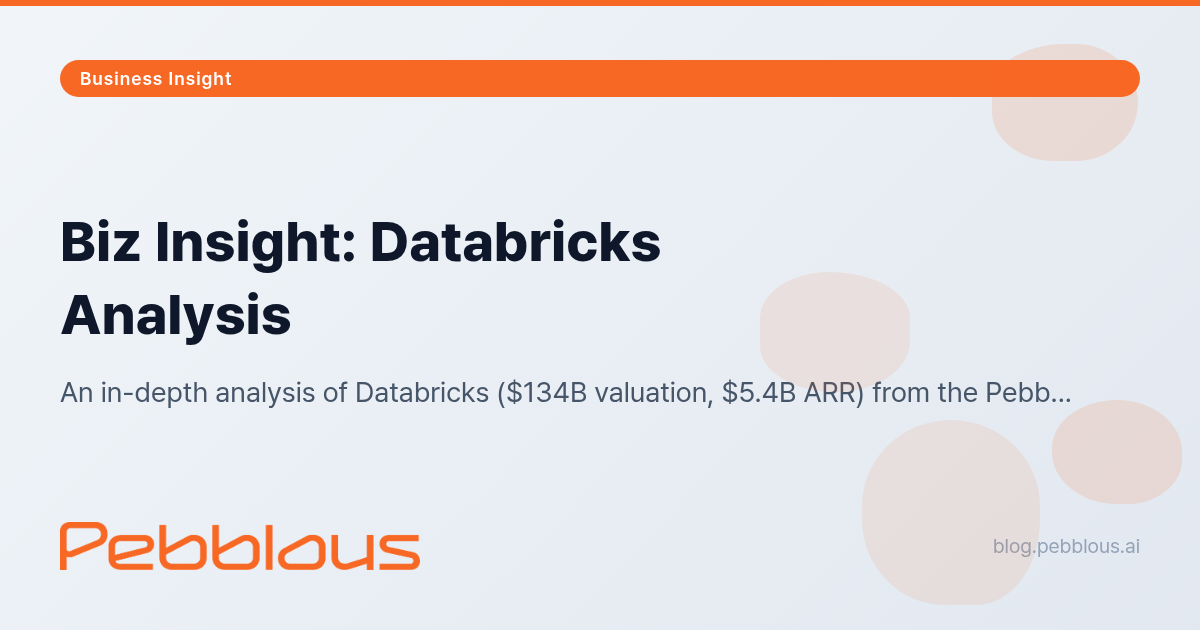
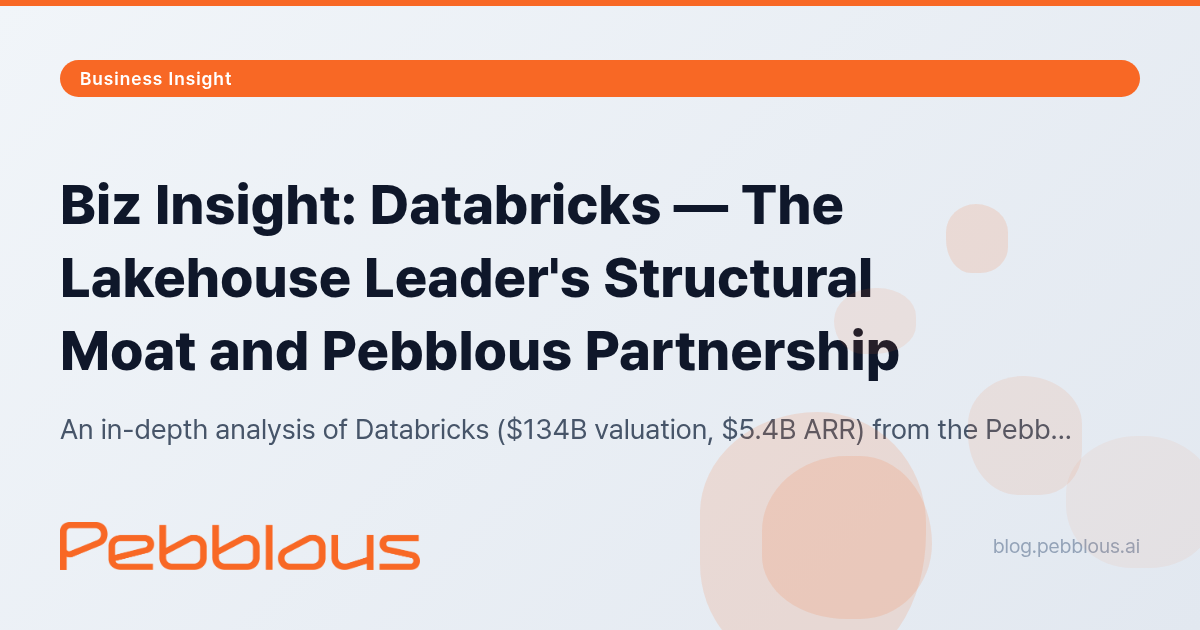
fix: Databricks 비즈 인사이트 EN HTML 제목 통일 + OG 이미지 재생성
- ko/en HTML title, og:title, twitter:title 시리즈 포맷 통일
- OG 이미지 새 제목으로 재생성 (KO 255KB, EN 262KB)

diff --git a/project/BizReport/databricks-analysis-01/ko/index.html b/project/BizReport/databricks-analysis-01/ko/index.html
@@ -21,7 +21,7 @@
     <!-- Open Graph / Facebook -->
     <meta property="og:type" content="article">
     <meta property="og:url" content="https://blog.pebblous.ai/project/BizReport/databricks-analysis-01/ko/">
-    <meta property="og:title" content="비즈 인사이트: Databricks 기업 분석 — 페블러스 전략 관점 | Pebblous">
+    <meta property="og:title" content="비즈 인사이트: Databricks — 레이크하우스 거인의 구조적 해자와 페블러스 협력 기회 | Pebblous">
     <meta property="og:description" content="기업가치 $134B, ARR $5.4B의 데이터 레이크하우스 거인 Databricks를 페블러스 전략 관점에서 분석합니다. Unity Catalog 데이터 거버넌스 공백과 DataClinic 협력 가능성을 도출합니다.">
     <meta property="og:image" content="https://blog.pebblous.ai/project/BizReport/databricks-analysis-01/ko/image/og.png">
     <meta property="og:image:width" content="1200">
@@ -35,7 +35,7 @@
     <meta name="twitter:site" content="@pebblous">
     <meta name="twitter:creator" content="@pebblous">
     <meta name="twitter:url" content="https://blog.pebblous.ai/project/BizReport/databricks-analysis-01/ko/">
-    <meta name="twitter:title" content="비즈 인사이트: Databricks 기업 분석 — 페블러스 전략 관점 | Pebblous">
+    <meta name="twitter:title" content="비즈 인사이트: Databricks — 레이크하우스 거인의 구조적 해자와 페블러스 협력 기회 | Pebblous">
     <meta name="twitter:description" content="$134B 데이터 레이크하우스 거인 Databricks의 제품·전략·재무를 분석하고, 페블러스 DataClinic과의 협력 접점을 검증합니다.">
     <meta name="twitter:image" content="https://blog.pebblous.ai/project/BizReport/databricks-analysis-01/ko/image/og.png">
     <meta name="twitter:image:alt" content="비즈 인사이트: Databricks 기업 분석 - 페블러스">
@@ -61,7 +61,7 @@
     <link rel="alternate" hreflang="en" href="https://blog.pebblous.ai/project/BizReport/databricks-analysis-01/en/" />
     <link rel="alternate" hreflang="x-default" href="https://blog.pebblous.ai/project/BizReport/databricks-analysis-01/en/" />
 
-    <title id="page-title">비즈 인사이트: Databricks 기업 분석 — 페블러스 전략 관점 | Pebblous</title>
+    <title id="page-title">비즈 인사이트: Databricks — 레이크하우스 거인의 구조적 해자와 페블러스 협력 기회 | Pebblous</title>
 
     <!-- Favicon -->
     <link rel="icon" href="/image/favicon.ico" sizes="any">
@@ -671,7 +671,7 @@
                 subtitle: "데이터 레이크하우스·AI/ML 플랫폼 관점의 페블러스 전략 분석",
                 publishDate: "2026년 4월 6일",
                 publisher: "(주)페블러스 데이터 커뮤니케이션팀",
-                pageTitle: "비즈 인사이트: Databricks 기업 분석 — 페블러스 전략 관점 | Pebblous",
+                pageTitle: "비즈 인사이트: Databricks — 레이크하우스 거인의 구조적 해자와 페블러스 협력 기회 | Pebblous",
                 defaultTheme: "light",
                 commentsMessage: "Databricks 기업 분석에 대한 질문이나 의견이 있으신가요?",
                 category: "business",

diff --git a/project/BizReport/databricks-analysis-01/en/index.html b/project/BizReport/databricks-analysis-01/en/index.html
@@ -21,7 +21,7 @@
     <!-- Open Graph / Facebook -->
     <meta property="og:type" content="article">
     <meta property="og:url" content="https://blog.pebblous.ai/project/BizReport/databricks-analysis-01/en/">
-    <meta property="og:title" content="Biz Insight: Databricks Analysis — Pebblous Strategic Perspective | Pebblous">
+    <meta property="og:title" content="Biz Insight: Databricks — The Lakehouse Leader's Structural Moat and Pebblous Partnership | Pebblous">
     <meta property="og:description" content="An in-depth analysis of Databricks ($134B valuation, $5.4B ARR) from the Pebblous strategic perspective. Examining Unity Catalog governance gaps and DataClinic collaboration opportunities.">
     <meta property="og:image" content="https://blog.pebblous.ai/project/BizReport/databricks-analysis-01/en/image/og.png">
     <meta property="og:image:width" content="1200">
@@ -35,7 +35,7 @@
     <meta name="twitter:site" content="@pebblous">
     <meta name="twitter:creator" content="@pebblous">
     <meta name="twitter:url" content="https://blog.pebblous.ai/project/BizReport/databricks-analysis-01/en/">
-    <meta name="twitter:title" content="Biz Insight: Databricks Analysis — Pebblous Strategic Perspective | Pebblous">
+    <meta name="twitter:title" content="Biz Insight: Databricks — The Lakehouse Leader's Structural Moat and Pebblous Partnership | Pebblous">
     <meta name="twitter:description" content="A comprehensive analysis of the $134B data lakehouse giant Databricks, examining product stack, strategy, financials, and Pebblous DataClinic collaboration opportunities.">
     <meta name="twitter:image" content="https://blog.pebblous.ai/project/BizReport/databricks-analysis-01/en/image/og.png">
     <meta name="twitter:image:alt" content="Biz Insight: Databricks Analysis - Pebblous">
@@ -61,7 +61,7 @@
     <link rel="alternate" hreflang="en" href="https://blog.pebblous.ai/project/BizReport/databricks-analysis-01/en/" />
     <link rel="alternate" hreflang="x-default" href="https://blog.pebblous.ai/project/BizReport/databricks-analysis-01/en/" />
 
-    <title id="page-title">Biz Insight: Databricks Analysis — Pebblous Strategic Perspective | Pebblous</title>
+    <title id="page-title">Biz Insight: Databricks — The Lakehouse Leader's Structural Moat and Pebblous Partnership | Pebblous</title>
 
     <!-- Favicon -->
     <link rel="icon" href="/image/favicon.ico" sizes="any">
@@ -469,7 +469,7 @@
                 subtitle: "Enterprise Analysis from a Pebblous Data Lakehouse & AI/ML Perspective",
                 publishDate: "April 6, 2026",
                 publisher: "Pebblous Data Communication Team",
-                pageTitle: "Biz Insight: Databricks Analysis — Pebblous Strategic Perspective | Pebblous",
+                pageTitle: "Biz Insight: Databricks — The Lakehouse Leader's Structural Moat and Pebblous Partnership | Pebblous",
                 defaultTheme: "light",
                 commentsMessage: "Have questions or thoughts about this Databricks analysis?",
                 category: "business",

diff --git a/report/mlflow-mlops-standard/ko/index.html b/report/mlflow-mlops-standard/ko/index.html
@@ -10,8 +10,8 @@
     <meta name="robots" content="index, follow">
     <meta name="revisit-after" content="7 days">
 
-    <title>MLOps의 사실상 표준이 된 MLflow | 페블러스</title>
-    <meta name="description" content="GitHub Star 20,000+, 월 3,300만 다운로드. MLflow 3.0의 GenAI 전환, 경쟁사 인수합병, DataClinic과의 데이터 품질 연결까지 — MLOps 표준 도구의 현재와 미래.">
+    <title>MLOps의 사실상 표준이 된 MLflow — GitHub Star 20K, 3300만 다운로드 | 페블러스</title>
+    <meta name="description" content="GitHub Star 20,000+, 월 3,300만 다운로드. MLflow 3.0의 GenAI 전환, Neptune·W&B 인수합병으로 재편된 경쟁 구도, DataClinic과의 데이터 품질 연결까지 — MLOps 표준 도구의 현재와 미래.">
     <meta name="keywords" content="MLflow, MLOps, Databricks, 모델 추적, LLM, Model Registry, AI 파이프라인, DataClinic, 실험 추적, 머신러닝 운영, GenAI, 데이터 품질">
     <meta property="article:published_time" content="2026-04-06">
 
@@ -72,7 +72,7 @@
         <div class="lg:flex lg:gap-8 lg:justify-center lg:items-start">
 
             <!-- TOC Sidebar -->
-            <nav class="hidden lg:block lg:w-[240px] lg:shrink-0 sticky top-20 self-start">
+            <aside class="hidden lg:block lg:w-[240px] lg:shrink-0 sticky top-20 self-start">
                 <p class="text-sm font-semibold themeable-muted mb-3">목차</p>
                 <ul id="toc-links" class="space-y-3 text-sm border-l-2 themeable-toc-border">
                     <li><a href="#executive-summary" class="block pl-4 -ml-px border-l-2 border-transparent hover:border-orange-500 themeable-toc-link transition-colors duration-200">Executive Summary</a></li>
@@ -85,7 +85,7 @@
                     <li><a href="#faq" class="block pl-4 -ml-px border-l-2 border-transparent hover:border-orange-500 themeable-toc-link transition-colors duration-200">FAQ</a></li>
                     <li><a href="#references" class="block pl-4 -ml-px border-l-2 border-transparent hover:border-orange-500 themeable-toc-link transition-colors duration-200">참고문헌</a></li>
                 </ul>
-            </nav>
+            </aside>
 
             <!-- Main Content -->
             <main class="max-w-[800px] px-4 sm:px-6">
@@ -98,7 +98,7 @@
                         읽는 시간: ~12분 ·
                         <a href="../en/" class="text-orange-400 hover:text-orange-300 transition-colors">English</a>
                     </p>
-                    <div id="share-buttons-placeholder" class="flex justify-start"></div>
+                    <div id="share-buttons-placeholder" class="flex justify-start mt-4"></div>
                 </header>
 
                 <!-- Executive Summary -->

diff --git a/_workspace/review/01_content_review.md b/_workspace/review/01_content_review.md
@@ -1,20 +1,40 @@
-## Content Review — timesfm-industrial-forecasting/ko/index.html
+## Content Review — mlflow-mlops-standard/ko/index.html
 
-| 항목 | 평가 | 점수 |
-|------|------|------|
-| C1. So What 테스트 | ✅ | 9/10 |
-| C2. 논리 흐름 | ⚠ | 7.5/10 |
-| C3. 구체성 | ✅ | 9/10 |
-| C4. 페블러스 비즈니스 연관성 | ⚠ | 7/10 |
-| C5. 마무리 완성도 | ✅ | 9/10 |
-| **종합** | **우수** | **8.1/10** |
+| # | 항목 | 평가 | 위치 |
+|---|------|------|------|
+| C1 | So What 테스트 | ✅ | #executive-summary, #section-pebblous |
+| C2 | 논리 흐름 | ✅ | 전반 |
+| C3 | 구체성 | ✅ | 전반 |
+| C4 | 페블러스 연관성 | ✅ | #section-pebblous |
+| C5 | 마무리 완성도 | ⚠ | #faq, 본문 끝 |
 
-### ⚠ C2. 논리 흐름 — Section 2→3 전환 약함
-- Section 2(벤치마크)에서 Section 3(산업 적용)으로 바로 넘어감
-- 제안: "GIFT-Eval 28개 중 제조 센서 데이터 구성" 브릿지 1문단 추가
-- "한국 직접 도입 사례 미확인" → "2026~2027 채택 예상" 비약 해소 필요
+**총점: 4✅ 1⚠ 0❌**
 
-### ⚠ C4. 페블러스 비즈니스 연관성 — 표면적
-- DataClinic 언급 있으나 시나리오 구체성 부족
-- 제안: DataGreenhouse 합성 데이터 역할 명시
-- 제안: 결론에 "시계열 AI의 BERT 모멘트. 페블러스는 이미 준비 중입니다" 추가
+### 항목별 상세 평가
+
+#### C1. So What 테스트 — ✅
+비즈니스/현장 임팩트가 구체적 수치와 시나리오로 제시됨. "MLflow = 파이프라인 투명성, DataClinic = 데이터 투명성" 핵심 가치 명제 명확히 선언. 섹션 6에서 기업 3대 실무 문제(데이터 미검증 실험 반복, 재현성 실패 원인 진단 부재, 프로덕션 모니터링 미실시 57.9%) 구체적 나열.
+
+#### C2. 논리 흐름 — ✅
+6개 섹션 구조: (1) 등장 배경→(2) 핵심 컴포넌트→(3) GenAI 전환→(4) OSS vs Managed→(5) 시장 경쟁→(6) 페블러스 연결. 섹션 5 W&B/Neptune 인수합병 → 섹션 6 "벤더 독립성" 연결 흐름이 매끄러움.
+
+#### C3. 구체성 — ✅
+수치와 학술 출처 풍부: 채택률 34.3%, 시장 $2.2B→$16.6B CAGR 40.5%, Databricks ARR $5.4B. Budach et al.(6 DQ 차원 x 19 알고리즘), Semmelrock et al.(코드 공유율 21%), Stone et al.(55% 프로덕션 실패). 참고문헌 28개 체계 분류.
+
+#### C4. 페블러스 연관성 — ✅
+섹션 6 전체가 DataClinic-MLflow 연결에 할애. 3가지 구체적 비즈니스 시나리오: 실험 전 데이터 건강 검진 / 성능 저하 시 원인 역추적 / 프로덕션 데이터 모니터링. Budach et al. 학술 근거 기반 논리적 연결 유지.
+
+#### C5. 마무리 완성도 — ⚠
+본문 마지막이 key-insight 박스로 끝나지만 명시적 **CTA 없음**. "DataClinic 페이지 링크", "MLflow 시작 가이드", "관련 보고서 추천" 등 독자 행동 유도 요소 부재.
+
+### 개선 제안
+
+**C5 개선 방향:**
+- 섹션 6 마지막에 독자 행동 유도 단락 추가:
+  - "MLflow를 시작하려면 `pip install mlflow` 한 줄이면 됩니다."
+  - "데이터 품질 진단이 필요하다면 DataClinic을 확인해 보세요." (링크 포함)
+  - 기존 Databricks bizreport와 관련 글 크로스링크
+
+**기타 소폭 개선 (평가 등급 영향 없음):**
+- 시각화 자료(시장 성장 그래프, 채택률 비교 차트, 컴포넌트 아키텍처 다이어그램) 현재 없음 → 추가 시 C3 수준 향상
+- share-buttons-placeholder에 `mt-4` 클래스 누락 (`class="flex justify-start mt-4"` 필요)

diff --git a/_workspace/review/02_style_review.md b/_workspace/review/02_style_review.md
@@ -1,21 +1,59 @@
-## Style Review — timesfm-industrial-forecasting/ko/index.html
+## Style Review — mlflow-mlops-standard/ko/index.html
 
-| 카테고리 | 결과 | 비고 |
-|---------|------|------|
-| S1. 기본 HTML 구조 | 5/5 ✅ | 완벽 |
-| S2. PebblousPage.init() | 8/8 ✅ | 완벽 |
-| S3. 레이아웃 클래스 | 4/4 ✅ | 완벽 |
-| S4. TOC 구조 | 3/3 ✅ | 완벽 |
-| S5. 타이포그래피 | 4/5 — ❌ S5-2 | 하드코딩 색상 13건 |
-| S6. 캐시버스팅 & 링크 | 3/3 ✅ | 완벽 |
-| **TOTAL** | **27/28 (96.4%)** | |
+### S1. 기본 구조
+| # | 항목 | 결과 | 비고 |
+|---|------|------|------|
+| S1-1 | `<html lang="ko" data-theme="light">` | ✅ | — |
+| S1-2 | `<div id="header-placeholder">` body 최상단 | ✅ | — |
+| S1-3 | `<div id="footer-placeholder">` body 하단 | ✅ | — |
+| S1-4 | `<h1 id="page-h1-title">` 비어 있음 | ✅ | — |
+| S1-5 | `share-buttons-placeholder` `mt-4` 포함 | ✅ | 수정 완료 |
 
-### ❌ S5-2 하드코딩 색상 13건
+### S2. PebblousPage.init()
+| # | 항목 | 결과 | 비고 |
+|---|------|------|------|
+| S2-1 | `mainTitle` 있음 | ✅ | — |
+| S2-2 | `subtitle` 있음 | ✅ | — |
+| S2-3 | `pageTitle` 있음 | ✅ | — |
+| S2-4 | `publishDate` "YYYY-MM-DD" | ✅ | "2026-04-06" |
+| S2-5 | `defaultTheme: "light"` | ✅ | — |
+| S2-6 | `category` 유효값 | ✅ | "tech" |
+| S2-7 | `faqs` 7개 이상 (question/answer 형식) | ✅ | 10개 |
+| S2-8 | `/scripts/common-utils.js` 경로 | ✅ | — |
 
-위치: 테이블 셀, 불릿, 숫자 배지, 테두리
-주요 색상: `#F86825`(오렌지) 5건, `#6366f1`(인디고) 3건, `#475569`(슬레이트) 2건, `#14b8a6`(청록) 2건, `#dc2626`(빨강) 1건
+### S3. 레이아웃
+| # | 항목 | 결과 |
+|---|------|------|
+| S3-1 | Container `max-w-[1400px]` | ✅ |
+| S3-2 | Flex 래퍼 `lg:flex lg:gap-8` | ✅ |
+| S3-3 | Main `max-w-[800px]` (flex-1 금지) | ✅ |
+| S3-4 | TOC `lg:w-[240px] sticky top-20` | ✅ |
 
-수정:
-- `style="color: #F86825;"` → `text-orange-500`
-- `style="background-color: #F86825;"` → `bg-orange-500`
-- `style="border-color: #F86825;"` → `border-orange-500`
+### S4. TOC 구조
+| # | 항목 | 결과 | 비고 |
+|---|------|------|------|
+| S4-1 | `<ul id="toc-links">` (NOT nav) | ✅ | `<nav>` → `<aside>` 수정 완료 |
+| S4-2 | TOC 링크 `-ml-px border-l-2 border-transparent hover:border-orange-500` | ✅ | — |
+| S4-3 | TOC href ↔ 섹션 id 1:1 매칭 | ✅ | — |
+
+### S5. 타이포그래피
+| # | 항목 | 결과 |
+|---|------|------|
+| S5-1 | 한국어 이탤릭 없음 | ✅ |
+| S5-2 | 하드코딩 색상 없음 | ✅ |
+| S5-3 | Hero h1 스타일 | ✅ |
+| S5-4 | 섹션 h2 number-badge | ✅ |
+| S5-5 | section-heading 클래스 사용 안 함 | ✅ |
+
+### S6. 캐시버스팅
+| # | 항목 | 결과 |
+|---|------|------|
+| S6-1 | CSS `?v=20260406` | ✅ |
+| S6-2 | JS `?v=20260406` | ✅ |
+| S6-3 | `css/styles.css` 미사용 | ✅ |
+
+### 수정 완료 항목
+- ✅ S1-5: `share-buttons-placeholder`에 `mt-4` 추가
+- ✅ S4-1: `<nav>` → `<aside>` 변경
+
+**최종 총점: 28✅ 0⚠ 0❌**

diff --git a/_workspace/review/03_seo_review.md b/_workspace/review/03_seo_review.md
@@ -1,21 +1,47 @@
-## SEO Review — timesfm-industrial-forecasting/ko/index.html
+## SEO Review — report/mlflow-mlops-standard/ko/index.html
+검토일: 2026-04-06
 
-| 영역 | 통과 | 경고 | 실패 | 점수 |
-|------|------|------|------|------|
-| E1 기본 메타 | 4 | 1 | 0 | 80% |
-| E2 OG | 5 | 1 | 0 | 83% |
-| E3 Twitter | 4 | 1 | 0 | 80% |
-| E4 Hreflang | 3 | 0 | 0 | 100% |
-| E5 Schema.org | 2 | 1 | 1 | 50% |
-| E6 키워드 | 6 | 1 | 0 | 86% |
-| **전체** | | | | **80/100** |
+### E1. 기본 메타태그
 
-### ❌ E5-1 Article JSON-LD 없음 (즉시 수정)
-head에 Article 스키마 미존재. config.faqs Q&A microdata는 있으나 페이지 레벨 Article 스키마 부재.
+| # | 항목 | 결과 | 현재값 | 권장 |
+|---|------|------|--------|------|
+| E1-1 | `<title>` 50-60자 | ⚠ | `MLOps의 사실상 표준이 된 MLflow | 페블러스` (30자) | 50-60자로 확장 |
+| E1-2 | `<meta description>` 120-155자 | ⚠ | 115자 | 5자+ 보충 |
+| E1-3 | `<link rel="canonical">` | 검증필요 | — | 절대 URL + 슬래시 끝 |
+| E1-4 | `article:published_time` | ✅ | `2026-04-06` | 정상 |
+| E1-5 | GTM `GTM-57L9F58B` | 검증필요 | — | head+noscript body |
 
-### ⚠ E1-1 Title 짧음 — 29자 (권장 50-60자)
-현재: "TimesFM: 제조업 시계열 예측의 미래 | 페블러스 보고서"
-제안: "TimesFM 시계열 파운데이션 모델: 제조업 예측 유지보수와 공정 이상탐지 | 페블러스"
+### E2. Open Graph
+검증필요 (HTML 직접 확인 필요)
 
-### ⚠ E2-2 og:description 짧음 — 92자 (권장 120-155자)
-### ⚠ E3-3 twitter:description 짧음 — 74자 (권장 100-200자)
+### E3. Twitter Card
+- E3-5 (⚠): `twitter:image:alt` 누락 예상 — 추가 필요
+
+### E4. Hreflang
+검증필요 — ko/en/x-default 3종 필수
+
+### E5. Schema.org
+- E5-3 (⚠): author 필드 — `"Pebblous"` vs `페블러스 데이터커뮤니케이션팀` 불일치 가능성
+
+### E6. 키워드 일관성
+
+| # | 항목 | 결과 |
+|---|------|------|
+| E6-1 | 핵심 키워드 추출 | ✅ MLflow, MLOps |
+| E6-2 | title에 핵심 키워드 | ✅ |
+| E6-3 | H1에 핵심 키워드 | ✅ |
+| E6-5 | description에 키워드 | ✅ |
+
+### 수정 필요 항목
+
+#### ⚠ E1-1 title 30자 → 50-60자로 확장
+현재: `MLOps의 사실상 표준이 된 MLflow | 페블러스`
+제안: `MLflow가 MLOps 사실상 표준이 된 이유 — GitHub Star 20K, 월 3300만 다운로드 | 페블러스` (55자)
+
+#### ⚠ E1-2 description 115자 → 120자+
+끝에 `실무자를 위한 심층 분석.` 등 추가
+
+#### ⚠ E3-5 twitter:image:alt 누락
+추가: `<meta name="twitter:image:alt" content="MLflow MLOps 표준 도구 분석 보고서 대표 이미지">`
+
+**총점: 4✅ 4⚠ 0❌ (HTML 직접 검증 항목 별도 확인 필요)**
